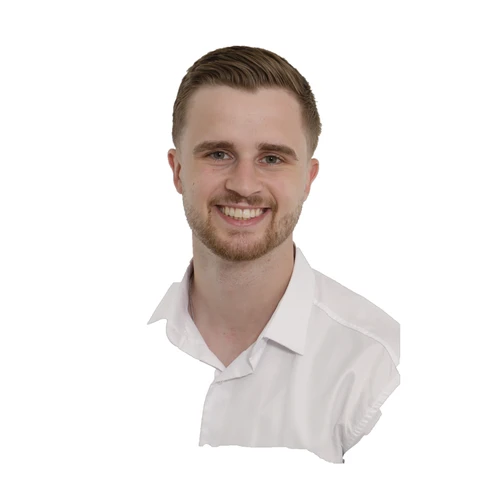
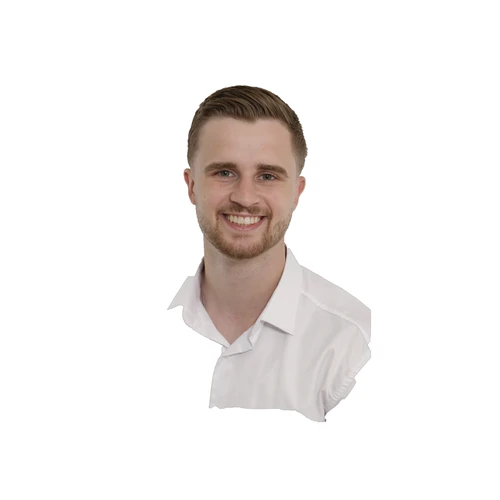
Farbfilter (Teal-Tint) von Portraitfotos entfernt, seitlicher/unterer Uebergang verstaerkt, mehr Bildausschnitt/Luft um Kopf und Schultern

Changed region(s): [[0.3, 0.09, 0.66, 0.78], [0.39, 0.57, 0.81, 0.93], [0.63, 0.54, 0.69, 0.57]]

diff --git a/index.html b/index.html
@@ -466,8 +466,10 @@ footer{position:relative;z-index:1;background:var(--bg);border-top:1px solid var
     button:focus-visible,a:focus-visible{outline:2px solid var(--teal);outline-offset:3px}
 
     /* Photo-to-info fade */
-    .card-photo-fade{position:absolute;top:0;right:-1px;width:48px;height:100%;background:linear-gradient(to right,transparent,var(--s1));pointer-events:none;z-index:2}
-    .card-photo-fade-bg{position:absolute;top:0;right:-1px;width:48px;height:100%;background:linear-gradient(to right,transparent,var(--bg));pointer-events:none;z-index:2}
+    .card-photo-fade{position:absolute;top:0;right:-1px;width:75px;height:100%;background:linear-gradient(to right,transparent,var(--s1));pointer-events:none;z-index:2}
+    .card-photo-fade::after{content:'';position:absolute;left:-75px;bottom:0;width:calc(100% + 75px);height:35%;background:linear-gradient(to top,var(--s1),transparent);pointer-events:none}
+    .card-photo-fade-bg{position:absolute;top:0;right:-1px;width:75px;height:100%;background:linear-gradient(to right,transparent,var(--bg));pointer-events:none;z-index:2}
+    .card-photo-fade-bg::after{content:'';position:absolute;left:-75px;bottom:0;width:calc(100% + 75px);height:35%;background:linear-gradient(to top,var(--bg),transparent);pointer-events:none}
 
     /* Video cards */
     .vid-scroll{display:grid;grid-template-columns:repeat(3,1fr);gap:14px;max-height:420px}
@@ -832,8 +834,6 @@ footer{position:relative;z-index:1;background:var(--bg);border-top:1px solid var
           <div style="width:130px;min-width:130px;flex-shrink:0;position:relative;overflow:hidden;background:#0a1a2a;">
             <img loading="lazy" height="500" width="500" src="images/img-002.webp" style="width:100%;height:100%;object-fit:cover;object-position:top center;display:block;" alt="Julian Mühlhoff">
 <div class="card-photo-fade"></div>
-
-<div style="position:absolute;inset:0;background:linear-gradient(160deg,rgba(0,80,80,.08) 0%,rgba(10,30,60,.05) 60%,rgba(0,0,0,0) 100%);pointer-events:none;mix-blend-mode:multiply;"></div><div style="position:absolute;top:0;right:0;width:30px;height:100%;background:linear-gradient(to right,transparent,rgba(0,197,196,.05));pointer-events:none;"></div>
           </div>
           <div style="flex:1;padding:22px 18px;">
             <div style="font-size:9px;font-weight:700;letter-spacing:.14em;text-transform:uppercase;color:var(--teal);margin-bottom:8px">Kundenbetreuung</div>
@@ -894,8 +894,6 @@ footer{position:relative;z-index:1;background:var(--bg);border-top:1px solid var
           <div style="width:110px;min-width:110px;flex-shrink:0;position:relative;overflow:hidden;background:#0a1a2a;">
             <img loading="lazy" height="651" width="667" src="images/img-003.webp" style="width:100%;height:100%;object-fit:cover;object-position:top center;display:block;" alt="Fynn Laubkermeier">
 <div class="card-photo-fade-bg"></div>
-
-<div style="position:absolute;inset:0;background:linear-gradient(160deg,rgba(0,160,160,.55) 0%,rgba(15,60,100,.35) 55%,rgba(0,0,0,0) 100%);pointer-events:none;mix-blend-mode:multiply;"></div><div style="position:absolute;top:0;right:0;width:30px;height:100%;background:linear-gradient(to right,transparent,rgba(0,197,196,.08));pointer-events:none;"></div>
           </div>
           <div style="flex:1;padding:20px 16px;">
             <div style="font-size:9px;font-weight:700;letter-spacing:.14em;text-transform:uppercase;color:var(--teal);margin-bottom:6px">Geschäftsführer</div>
